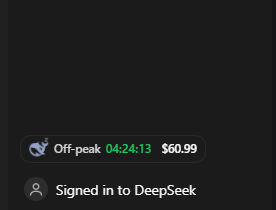
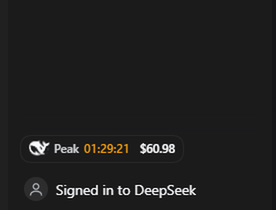
Replace the duplicated off-peak shot with the real peak capture

Changed region(s): [[0.087, 0.6571, 0.7246, 0.7714]]

diff --git a/README.md b/README.md
@@ -3,7 +3,7 @@
 <p align="center">
   <img width="276" alt="Off-peak: the whale sleeps, the countdown runs green" src="https://raw.githubusercontent.com/tespio/dsh-balance-whale/main/assets/screenshot.png">
   &nbsp;&nbsp;
-  <img width="276" alt="Peak: the whale swims, the countdown runs orange" src="https://raw.githubusercontent.com/tespio/dsh-balance-whale/main/assets/screenshot-peak.png">
+  <img width="276" alt="Peak: the whale is bright and tilted, the countdown runs orange" src="https://raw.githubusercontent.com/tespio/dsh-balance-whale/main/assets/screenshot-peak.png?v=3">
 </p>
 
 A whale in the DSH sidebar footer that shows your DeepSeek account balance, a live countdown to the
